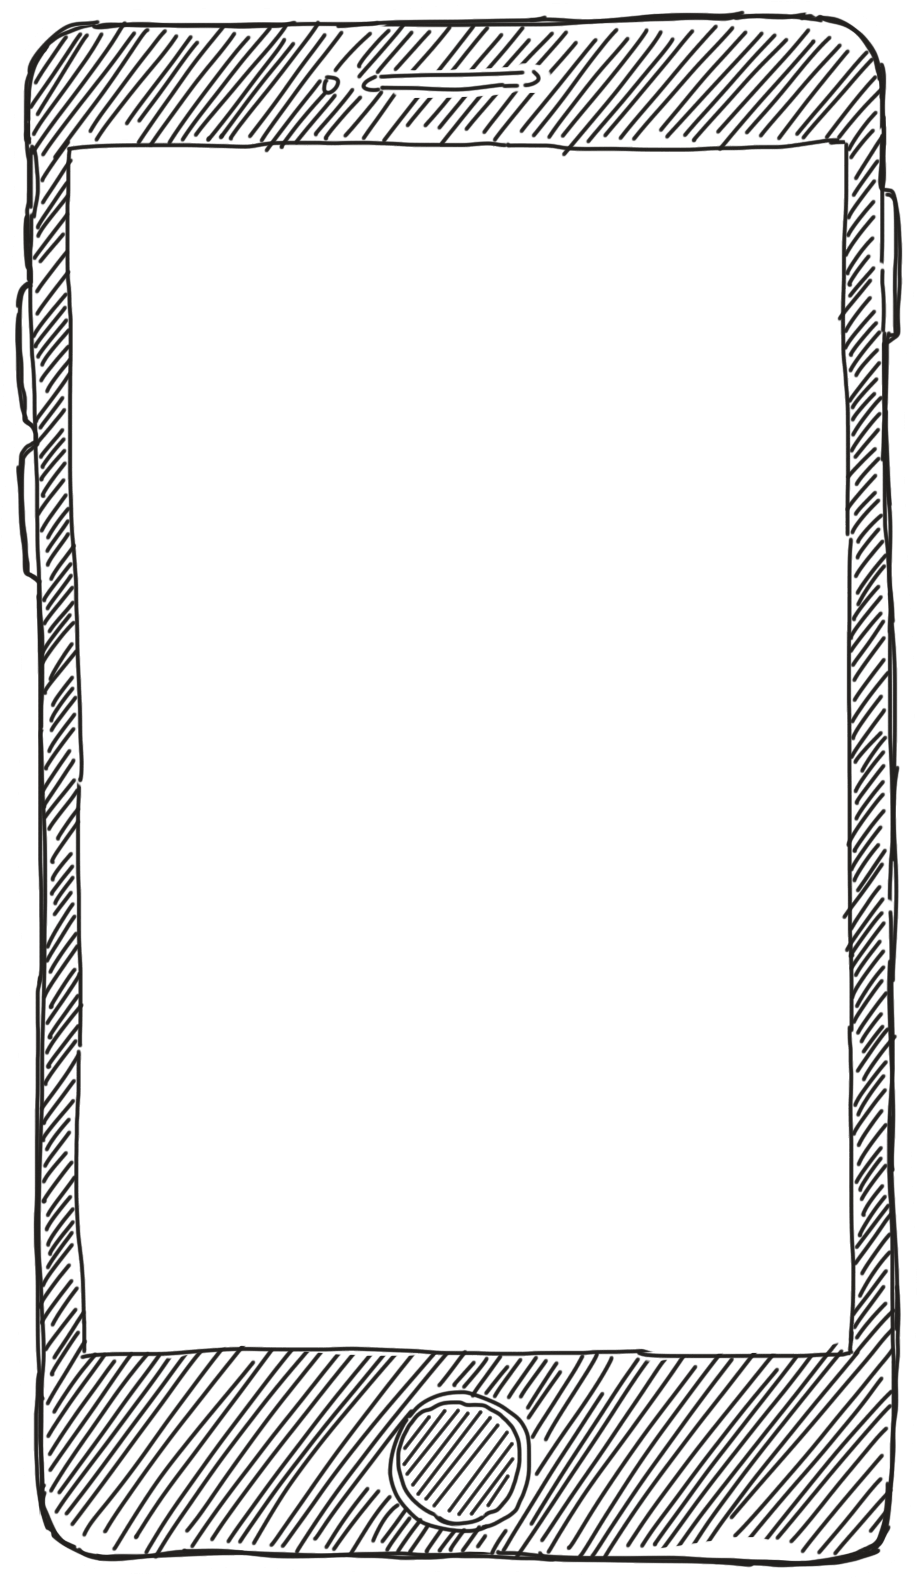
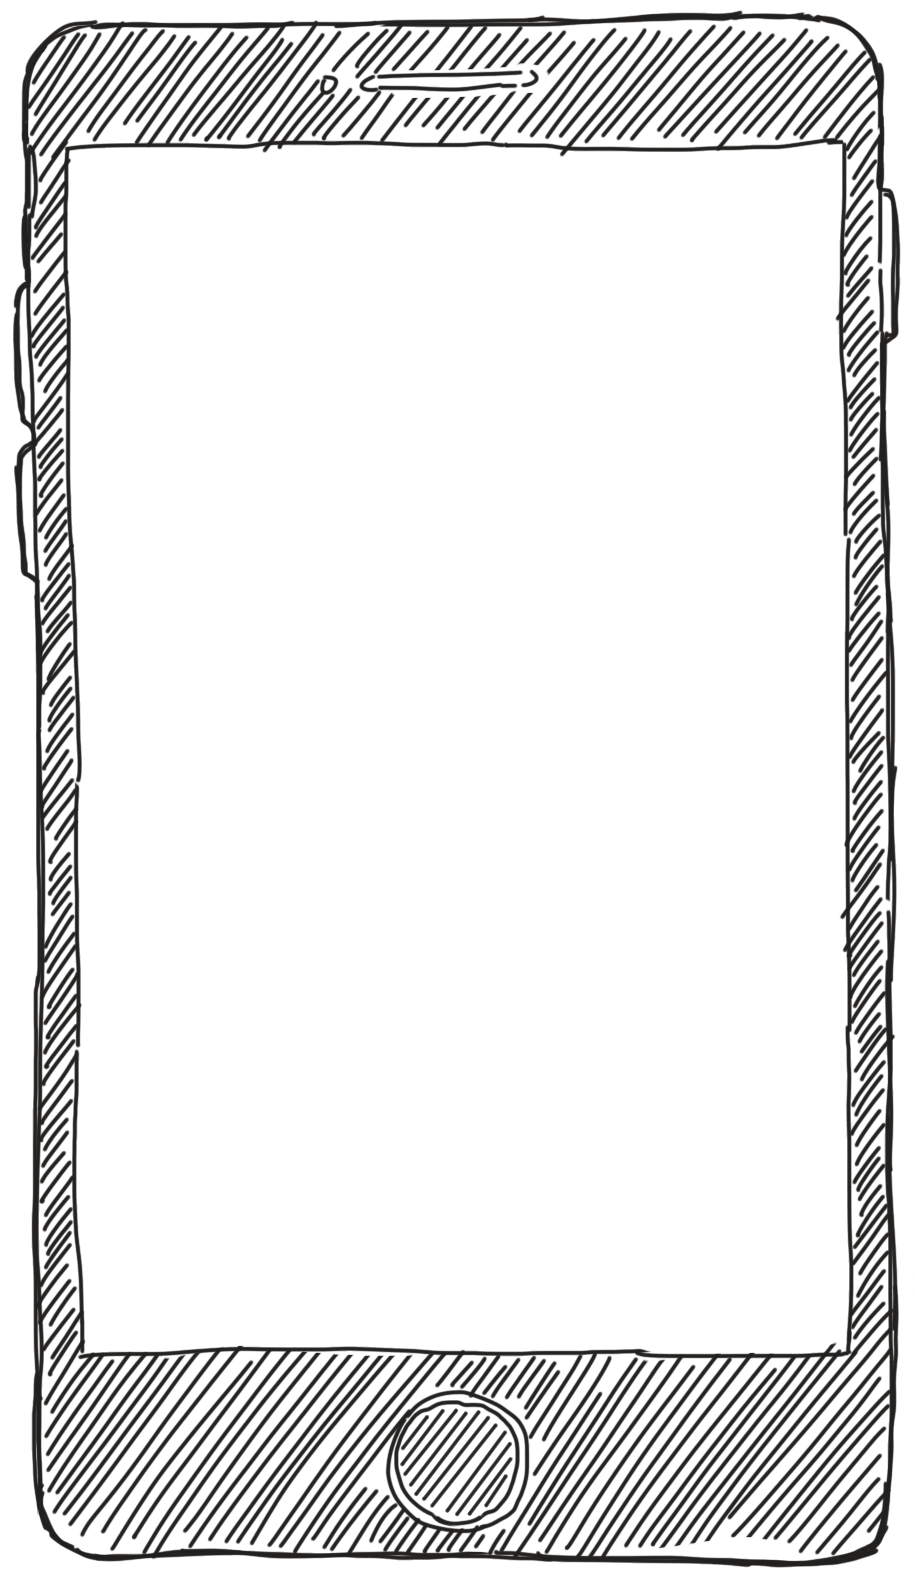
レイアウトの修正

Changed region(s): [[0.0, 0.0, 0.612, 0.9893], [0.7344, 0.0, 1.0, 0.9893]]

diff --git a/src/styles/book.css b/src/styles/book.css
@@ -11,11 +11,11 @@
         right: 0;
     
         background: url("/materials/ipad.png") center center no-repeat;
-        background-size: 101%;
+        background-size: 100%;
         width: auto;
         max-height: 98vh;
         min-height: 700px;
-        aspect-ratio: 605 / 757;
+        aspect-ratio: 605 / 756;
         overflow: hidden;
     }
     /* safari対応 */
@@ -28,8 +28,7 @@
     }
     
     .frame .in-frame {
-        font-size: 1.5vmin;
-        margin: 1% 0% 1% 0%;
+        font-size: 1.4vh;
         box-sizing: border-box;
         object-fit: cover;
         overflow-y: auto;
@@ -52,12 +51,10 @@
 
         margin: auto;
         position: relative;
-
         background: url("/materials/iphone.png") center center no-repeat;
-        background-size: 102%;
-        width: 100%;
-        /* max-height: 99vh; */
-        aspect-ratio: 183 / 317;
+        background-size: 100%;
+        width: 100%;                                                                                                                                                                                                                                                                                                                                                                                                                                                                                                                                                                                                                                                                                                                                                                                                                                                                                                                                                                                                              
+        aspect-ratio: 183 / 316;
     }
     /* safari対応 */
     .frame-padding {

diff --git a/src/components/darkmode/main.css b/src/components/darkmode/main.css
@@ -34,12 +34,12 @@ html.dark body {
 }
 
 #themeToggle{
-    width: 40px;
-    height: 40px;
+    width: 30px;
+    height: 30px;
     border: 0;
     background: none;
-    margin-right: 1%;
+    margin-right: 3%;
 }
 #themeToggle:active {
-    transform: translateY(5%)
+    transform: translateY(10%)
 }

diff --git a/src/styles/postsformat.css b/src/styles/postsformat.css
@@ -48,3 +48,7 @@ p img {
     width: 100%;
     box-sizing: border-box;
 }
+
+.mddate {
+    font-style: italic;
+}
